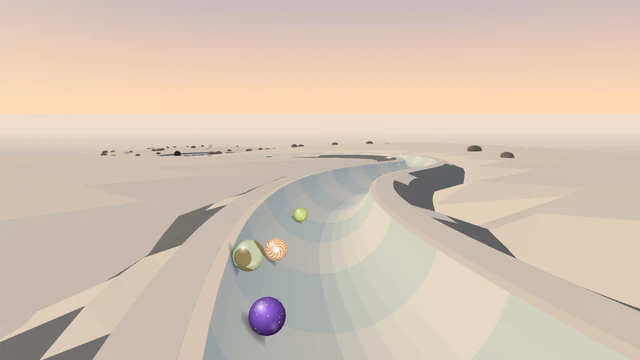
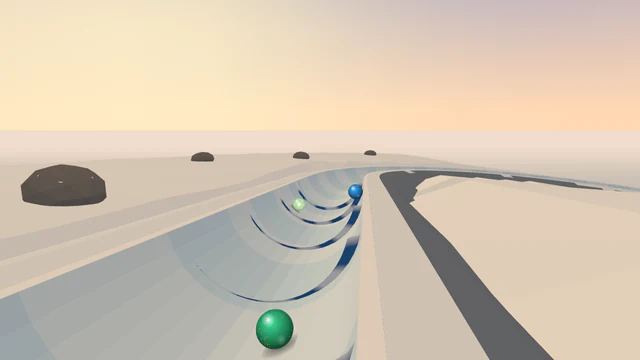
Greenland Expedition: its own layout and opening; its records start again
Until now physically the same track as Åre Run. A snowdrift start (the
sand-trap opening, the field let go in jittered waves) past the sled dogs and
route flags, over the sastrugi, a sweep down the glacier, the hairpin past the
musk ox, over the crevasse bridge, down through the ice cave (the big feature
and new signature), S-bends and a spiral along the fjord to Ilulissat's
harbour. Full report 50/50; Wild 44. Data updates 2027-07-19. Off the known
failures.

Claude-Session: https://claude.ai/code/session_011vSSkqNPL9kncfzrwF15wS

diff --git a/src/tracks/greenland-expedition.js b/src/tracks/greenland-expedition.js
@@ -5,8 +5,8 @@
 // design ("New Track Designs", 10), built with the track kit. (Sled dogs, a musk ox,
 // an Arctic fox and whales: Bobsleigh Run has the polar bear and the icicles.)
 const {
-  track, plunge, straight, sBends, sweep, spiral, hairpin, splitter, runIn,
-  pileUp, slalom, swipe, parked, boost, moguls,
+  track, opening, plunge, straight, sBends, sweep, spiral, hairpin, runIn,
+  slalom, swipe, parked, moguls, peg, brake,
 } = require('../trackKit');
 
 module.exports = track({
@@ -17,10 +17,11 @@ module.exports = track({
   surface: 'ice',
   biome: 'arctic',
   lighting: 'midnight-sun',
-  signature: 'Crevasse bridge',
+  signature: 'Ice cave',
   tvCameras: [
-    { section: 'Crevasse bridge', at: 0.8, side: 'left', distance: 6, height: 8 },
-    { section: 'Glacier splitter', at: 0.2, side: 'left', distance: 6, height: 8 },
+    // (Out of the ice cave, looking back up into its mouth at the field dropping through it.)
+    { section: 'Out of the cave', at: 0.3, side: 'left', distance: 6, height: 8 },
+    { section: 'Fjord spiral', at: 0.5, side: 'right', distance: 6, height: 8 },
   ],
   billboardFrame: 'crates',
   // The gate at a base camp on the ice sheet (orange tents, flags, a loaded dog sled); the
@@ -28,38 +29,43 @@ module.exports = track({
   start: { landmark: 'base-camp', scenery: ['bare'], gate: 'trapdoor', shots: { countdown: 'side', launch: 'look-back' } },
   finish: { scenery: ['colourful-houses', 'icefjord'] },
   designChanges: [
-    'Route-marker flags (bamboo poles with orange flags, as expeditions mark their way across the ice) down the ice-sheet plunge after the sled dogs, glanced off like slalom gates: with dogs alone the field reached the splitter sorted by strength (the report\'s splitter check failed) and overtook too little.',
-    'The crevasse bridge comes just after the glacier splitter, not before it: with a straight in front of the splitter the leaders all reach it on one side and take the same channel, so the splitter decides who wins (the report\'s splitter check fails).',
-    'The sastrugi ridges lie on a 50 m straight of their own after the glacier splitter ("Sastrugi ridges"), not on the S-bends: the recipe keeps rows of bumps off bends, and ridges just before the splitter sorted the field by strength.',
-    'A 50 m straight, "Run to the hairpin", before the hairpin: the recipe needs a braking zone before the one sharp bend.',
+    'Its own layout (Moses, 15 Nov 2026: World Tour re-layouts): over the sastrugi, a sweep down the glacier, the hairpin past the musk ox, over the crevasse bridge, down through the ice cave (the big feature: a long steep drop inside the glacier), S-bends along the fjord and the run to the harbour.',
+    'A snowdrift start (the sand-trap opening, since 15 Nov 2026), the field let go in jittered waves: sled dogs resting on the ice sheet, then route-marker flags (bamboo poles with orange flags, as expeditions mark their way across the ice), glanced off like slalom gates.',
+    'The sastrugi ridges lie on a straight of their own: the recipe keeps rows of bumps off bends.',
+    'A straight, "Run to the hairpin", before the hairpin: the recipe needs a braking zone before the one sharp bend.',
   ],
+  // (The sand-trap start, here a snowdrift: down the ice sheet through deep snow, past the sled dogs resting and the
+  // expedition's route-marker flags; let go in jittered waves, a new order every race.)
+  opening: opening('sand-trap', {
+    costumes: { block: 'sled-dog', slalom: 'route-flag' },
+    names: { plunge: 'Through the snowdrift' },
+    waves: { groups: 5, gap: 0.12, jitter: 0.1 },
+  }),
   sections: [
-    {
-      // Sled dogs resting on the track, then the expedition's route-marker flags down the rest of it.
-      name: 'Ice-sheet plunge', shape: plunge(80, { grade: 0.6 }),
-      obstacles: [pileUp({ costume: 'sled-dog', at: 0.42 }), slalom({ costume: 'route-flag', from: 0.55, to: 0.97, count: 6, loss: 0.3 })],
-      scenery: ['bare'],
-    },
-    {
-      name: 'Sastrugi S-bends', shape: sBends({ first: 'left', radius: 75, degrees: 80, grade: 0.13 }),
-      scenery: ['bare'], billboards: 1,
-    },
-    {
-      name: 'Glacier splitter', shape: splitter({ side: 'left', balance: { tipOffset: -0.8, left: { drag: 1.36, scrub: 1.36 }, right: { drag: 0.42, scrub: 0.72 } } }),
-      around: 'nunatak', scenery: ['rocks'],
-    },
     // The sastrugi: low wind-carved ridges across the ice (on a straight: the recipe keeps rows of bumps off bends).
-    { name: 'Sastrugi ridges', shape: straight(50, { grade: 0.15 }), features: [moguls({ from: 0.1, to: 0.9, count: 5 })], scenery: ['bare'] },
-    { name: 'Crevasse bridge', shape: straight(50, { grade: 0.15 }), bridge: 'ice' },
-    { name: 'Glacier sweep', shape: sweep({ side: 'right', radius: 80, degrees: 140, grade: 0.07 }), features: [boost({ at: 0.08 })], billboards: 2, scenery: ['bare'] },
-    // (Not in the design: the recipe's braking zone needs a straight before the one sharp bend.)
-    { name: 'Run to the hairpin', shape: straight(50, { grade: 0.15 }), billboards: 1, scenery: ['rocks'] },
-    { name: 'Hairpin', shape: hairpin({ side: 'left' }), obstacles: [swipe({ costume: 'musk-ox', side: 'high' })], scenery: ['rocks'] },
-    { name: 'Ice cave', shape: plunge(120, { grade: 0.42, from: 0.16 }), tunnel: 'ice-cave' },
-    { name: 'Fjord spiral', shape: spiral({ side: 'right', radius: 45, grade: 0.17 }), figures: ['arctic-fox'], scenery: ['rocks'] },
+    { name: 'Sastrugi ridges', shape: straight(55, { grade: 0.13 }), features: [moguls({ from: 0.3, to: 0.9, count: 5 })], scenery: ['bare'] },
     {
-      name: 'Final plunge', shape: straight(80, { grade: 0.2 }),
-      obstacles: [parked({ costume: 'snowmobile', at: 0.4, side: 'right', length: 8 })], scenery: ['colourful-houses'],
+      name: 'Glacier sweep', shape: sweep({ side: 'left', radius: 80, degrees: 140, grade: 0.13 }), billboards: 2, scenery: ['bare'],
+    },
+    // (Not in the design: the recipe's braking zone needs a straight before the one sharp bend.)
+    {
+      name: 'Run to the hairpin', shape: straight(55, { grade: 0.13 }), scenery: ['rocks'],
+      obstacles: [peg({ costume: 'route-flag', at: 0.3, line: 'left' }), peg({ costume: 'route-flag', at: 0.55, line: 'right' })],
+    },
+    { name: 'Hairpin', shape: hairpin({ side: 'right' }), obstacles: [swipe({ costume: 'musk-ox', side: 'high' })], scenery: ['rocks'] },
+    { name: 'Crevasse bridge', shape: straight(50, { grade: 0.15 }), bridge: 'ice' },
+    // The track's big feature: a long steep drop through an ice cave inside the glacier.
+    { name: 'Ice cave', shape: plunge(110, { grade: 0.4, from: 0.16 }), tunnel: 'ice-cave' },
+    { name: 'Out of the cave', shape: straight(50, { grade: 0.14 }), billboards: 1, scenery: ['bare'] },
+    {
+      name: 'Fjord S-bends', shape: sBends({ first: 'right', radius: 70, degrees: 80, grade: 0.13 }), figures: ['arctic-fox'], scenery: ['rocks'],
+      obstacles: [peg({ costume: 'route-flag', at: 0.3, line: 'left' }), peg({ costume: 'route-flag', at: 0.7, line: 'right' })],
+    },
+    { name: 'Fjord spiral', shape: spiral({ side: 'left', radius: 45, grade: 0.15 }), scenery: ['icefjord'] },
+    {
+      name: 'Harbour straight', shape: straight(80, { grade: 0.14 }), billboards: 1, scenery: ['colourful-houses'],
+      features: [brake({ at: 0.05, length: 12, drag: 0.02 })],
+      obstacles: [parked({ costume: 'snowmobile', at: 0.3, side: 'right', length: 8 }), slalom({ costume: 'route-flag', from: 0.55, to: 0.9, count: 3, loss: 0.3 })],
     },
     { name: 'Finish', shape: runIn(), scenery: ['colourful-houses', 'icefjord'] },
   ],

diff --git a/test/trackKit.test.js b/test/trackKit.test.js
@@ -56,7 +56,7 @@ test('every kit track opens with Bobsleigh Run\'s starting ramp, gate, channel a
     // (The staggered drop and the varied starts let the field go in waves: their funnel has that one setting more.
     // Any other opening only where its track asks for them, listed here: Nevada Drag Strip's crest start.)
     const { waves, ...rest } = funnel;
-    if (waves) assert.ok(['staggered-drop', 'clean-drop', 'peg-drop', 'pipe-drop', 'rolling-start', 'chicane-start', 'rumble-start'].includes(t.physics.kit.opening) || ['nevada-drag-strip', 'hudson-highlands-run', 'iguazu-devils-throat', 'chao-phraya-dawn-spiral', 'blyde-potholes-spiral', 'kings-canyon-lost-city', 'huashan-plank-walk', 'etna-valle-del-bove', 'tianmen-heavens-gate', 'sunken-ruins', 'are-run', 'crystal-grotto', 'moon-base'].includes(t.slug), `${t.slug}: waves at the gate`);
+    if (waves) assert.ok(['staggered-drop', 'clean-drop', 'peg-drop', 'pipe-drop', 'rolling-start', 'chicane-start', 'rumble-start'].includes(t.physics.kit.opening) || ['nevada-drag-strip', 'hudson-highlands-run', 'iguazu-devils-throat', 'chao-phraya-dawn-spiral', 'blyde-potholes-spiral', 'kings-canyon-lost-city', 'huashan-plank-walk', 'etna-valle-del-bove', 'tianmen-heavens-gate', 'sunken-ruins', 'are-run', 'greenland-expedition', 'crystal-grotto', 'moon-base'].includes(t.slug), `${t.slug}: waves at the gate`);
     if (!['funnel-drop', 'staggered-drop'].includes(t.physics.kit.opening)) assert.deepEqual(rest, tmFunnel);
     assert.deepEqual(t.physics.gate, bob.physics.gate);
     assert.equal(t.physics.collisions, true);

diff --git a/test/samenessAllTracks.test.js b/test/samenessAllTracks.test.js
@@ -37,7 +37,7 @@ const KNOWN = {
   'portes-du-soleil-run': ['opening-kind', 'layout'],
   'park-city-run': ['opening', 'opening-kind', 'layout'],
   'baqueira-beret-run': ['opening', 'opening-kind', 'layout'],
-  'greenland-expedition': ['opening', 'opening-kind', 'layout'],
+
   'paris-eiffel-tower-run': ['opening', 'opening-kind', 'layout'],
   'dubai-twister': ['opening', 'opening-kind', 'layout'],
   'amazon-water-run': ['layout'],

diff --git a/docs/06-decisions.md b/docs/06-decisions.md
@@ -4,7 +4,7 @@
 
 | Date | Decision | Why |
 |---|---|---|
-| 2026-11-15 | **World Tour re-layouts** (Moses, 21:20: every World Tour pack track still on the sameness test's known failures gets its own layout and opening, with a signature feature from the real place, as the Grand Prix re-layouts; then seven new World Tour tracks to fill the pack to 20). Each keeps its name, slug and look; a `--relayout` data update starts its records again (`tracks.records_since`), and a `<slug>-to-world-tour` update sets its new wildness (the pack script now takes a kit track with no series marker as World Tour, as the server does). Done: **Åre Run** (Wild 43, was Easy 29: a rumble start down the summit moguls, the hairpin, a sweep under the gondola, down the World Championship slope as the big feature, the funicular spiral; `2027-07-18-…`). | The old World Tour tracks were built from one design and raced alike (several pairs identical, nine with the same opening). |
+| 2026-11-15 | **World Tour re-layouts** (Moses, 21:20: every World Tour pack track still on the sameness test's known failures gets its own layout and opening, with a signature feature from the real place, as the Grand Prix re-layouts; then seven new World Tour tracks to fill the pack to 20). Each keeps its name, slug and look; a `--relayout` data update starts its records again (`tracks.records_since`), and a `<slug>-to-world-tour` update sets its new wildness (the pack script now takes a kit track with no series marker as World Tour, as the server does). Done: **Åre Run** (Wild 43, was Easy 29: a rumble start down the summit moguls, the hairpin, a sweep under the gondola, down the World Championship slope as the big feature, the funicular spiral; `2027-07-18-…`), **Greenland Expedition** (Wild 44: a snowdrift start, the sand-trap opening, past the sled dogs, the ice cave as the big feature, a long steep drop inside the glacier; `2027-07-19-…`). | The old World Tour tracks were built from one design and raced alike (several pairs identical, nine with the same opening). |
 | 2026-11-15 | **Seven more Blocks 1 tracks: the Blocks 1 pack filled to 20** (Moses, 13:38: the game-world look, our own voxel worlds with retro-game touches, never another game's names, creatures, textures or falling pieces; same rules as the Canyons and Peaks; 2 Easy, 3 Wild, 2 Extreme). Built, each pushed switched off in the Blocks 1 pack, not free: **Mushroom Grove** (Easy 24: a drop off a giant mushroom's cap), **Sunken Ruins** (Easy 17: a banked turn round a sunken dome), **Clockwork Works** (Wild 39: a splitter round a giant gear), **Crystal Grotto** (Wild 44: a spiral round a crystal spire), **Jungle Ruins** (Wild 45: a waterfall drop through falling water), **Moon Base** (Extreme 60: a 66 m drop over a crater's rim), **Neon Grid** (Extreme 57: a loop over the glowing grid, 69 overtakes); data updates `2027-07-11-…` to `2027-07-17-…`; seven new worlds, `kitLandmarksBlockWorlds.js` and three Blocks 1 start types (`portal-gate`, `block-pyramid`, `gear-tower`). On phones a Block Series cube pillar is now at most 8 cubes (each taller), as Crystal Grotto's tall pillars went over the triangle budget; looks only. Status: project doc `claude/blocks-1-seven-more-status.md`. Waiting for Moses's deploy (with the Canyons and Peaks), then his look at each preview before switching on. | With them the Blocks 1 pack has 20 besides the free Spawn Point and can go on sale. |
 | 2026-11-15 | **Six more Peaks tracks: the Peaks pack filled to 20** (Moses, 09:45: same rules as the six Canyons, and 65+ overtakes on a loop track; 2 Easy, 2 Wild, 2 Extreme; six famous mountains not yet in the series, each with two signature features, unlike the World Tour's alpine resorts). Built, each pushed switched off in the Peaks pack, not free: **Half Dome Granite Slabs** (Easy 31: a drop down the granite slabs below the face), **Huayna Picchu Terraces** (Extreme 48: a splitter round a terraced hill), **Huashan Plank Walk** (Easy 20: a dramatic banked turn round the plank walk's cliff), **Eiger North Face** (Wild 43: a banked spiral round a window pillar), **Etna Valle del Bove** (Extreme 50: a drop into the Valle del Bove), **Tianmen Heaven's Gate** (Wild 41: a loop under the great arch, 69 overtakes); data updates `2027-07-05-…` to `2027-07-10-…`; six palettes and `kitLandmarksPeak2.js`; the pack script knows Peaks. Huayna came out Extreme and Huashan Easy, Etna Extreme and Tianmen Wild (planned otherwise); the mix stays 2/2/2. Status: project doc `claude/peaks-six-more-status.md`. Waiting for Moses's deploy (with the Canyons), then his look at each preview before switching on. | With them the Peaks pack has 20 besides the free Everest Icefall Run and can go on sale. |
 | 2026-11-15 | **A coaster track can have a loop** (Kings Canyon Lost City, the first): over the loop's span the coaster's rails, spine, ties and towers stop (3 m either side), as the loop draws its own track and steel along its own path; before, they ran along the ground under it, 64 m with no rim under the rails, and blocked the follow camera. The rails check (`railGaps`) now finds each rail line's first point along the whole track (by height too), so lines that start after a loop are checked where they are. Looks only: race results unchanged. | A loop in a canyon is the Canyons series' loop; the coaster kit had never met one. |

diff --git a/docs/README.md b/docs/README.md
@@ -8,7 +8,7 @@
 
 **Where it stands:**
 - **Website:** live at marblespins.com (Vercel builds every push to `Main`; production is at `548aeb8`, 15 Nov). Soft start (social media, a daily set of videos, 10–20 invited test pilots) since the week of 26 Oct. **Official launch 1 Dec 2026**, with the Holiday Season, the season pass and the apps. GA4 on since 31 Oct (after cookie consent); the Meta Pixel off.
-- **Tracks: 152 live in ten series** (World Tour, Grand Prix, Coasters, Canyons, Blocks, Track and Field, Rivers, Peaks, Pinball, Arcade), since the 9 motorsport Grand Prix tracks were switched on on 13 Nov; 191 in the database. **Switched off, waiting for Moses:** five more Rivers tracks (on the server since 13 Nov: Yukon Five Finger Run, Arno Old Bridge Run, Chao Phraya Dawn Spiral, Hudson Highlands Run, Iguazú Devil's Throat) and six more Canyons tracks (on Main, **waiting for the server deploy**: Bryce Hoodoo Run, Blyde Potholes Spiral, Taroko Marble Gorge, Samaria Iron Gates, Kings Canyon Lost City, the first coaster track with a loop, and Sumidero Christmas Falls; data updates `2027-06-29-…` to `2027-07-04-…`) and six more Peaks tracks (on Main, **waiting for the same deploy**: Half Dome Granite Slabs, Huayna Picchu Terraces, Huashan Plank Walk, Eiger North Face, Etna Valle del Bove, Tianmen Heaven's Gate; data updates `2027-07-05-…` to `2027-07-10-…`) and seven more Blocks 1 tracks (on Main, **waiting for the same deploy**: Mushroom Grove, Sunken Ruins, Clockwork Works, Crystal Grotto, Jungle Ruins, Moon Base, Neon Grid; data updates `2027-07-11-…` to `2027-07-17-…`); World Tour re-layouts (on Main, **waiting for the same deploy**; their records start again): Åre Run (`2027-07-18-…`). Moses deploys Canyons, Peaks, Blocks 1 and the World Tour work together. The 31 holiday tracks are switched on but hidden and closed until 1 Dec 00:00 Swedish time (183 live then).
+- **Tracks: 152 live in ten series** (World Tour, Grand Prix, Coasters, Canyons, Blocks, Track and Field, Rivers, Peaks, Pinball, Arcade), since the 9 motorsport Grand Prix tracks were switched on on 13 Nov; 191 in the database. **Switched off, waiting for Moses:** five more Rivers tracks (on the server since 13 Nov: Yukon Five Finger Run, Arno Old Bridge Run, Chao Phraya Dawn Spiral, Hudson Highlands Run, Iguazú Devil's Throat) and six more Canyons tracks (on Main, **waiting for the server deploy**: Bryce Hoodoo Run, Blyde Potholes Spiral, Taroko Marble Gorge, Samaria Iron Gates, Kings Canyon Lost City, the first coaster track with a loop, and Sumidero Christmas Falls; data updates `2027-06-29-…` to `2027-07-04-…`) and six more Peaks tracks (on Main, **waiting for the same deploy**: Half Dome Granite Slabs, Huayna Picchu Terraces, Huashan Plank Walk, Eiger North Face, Etna Valle del Bove, Tianmen Heaven's Gate; data updates `2027-07-05-…` to `2027-07-10-…`) and seven more Blocks 1 tracks (on Main, **waiting for the same deploy**: Mushroom Grove, Sunken Ruins, Clockwork Works, Crystal Grotto, Jungle Ruins, Moon Base, Neon Grid; data updates `2027-07-11-…` to `2027-07-17-…`); World Tour re-layouts (on Main, **waiting for the same deploy**; their records start again): Åre Run, Greenland Expedition (`2027-07-18-…` to `2027-07-19-…`). Moses deploys Canyons, Peaks, Blocks 1 and the World Tour work together. The 31 holiday tracks are switched on but hidden and closed until 1 Dec 00:00 Swedish time (183 live then).
 - **Server:** last deployed **13 Nov 2026, ~23:00** (code fingerprint `7abad7e4c43d`, Main `7a3342d`; 57 tables, 527 columns): the Stripe webhook's refusals logged and its readiness on `/health`. The week's other deploys (12 Nov `b5cc113debdb` and `bc1bd7ff096f`; 13 Nov ~14:20 `8d7a15a7631e`, ~18:30 `6be622039502`, ~21:45 `c25a2aa05c5b`) brought wildness and track packs, pack sales, the free set of 15, the motorsport Grand Prix tracks, where players come from and the five Rivers. Main is at fingerprint `5636207a9263`: the next deploy brings only the six Canyons tracks.
 - **Wildness and track packs:** every live track is Easy / Wild / Extreme (from 1,000 report races; 68 / 61 / 23 of the 152), shown as a badge and a picker filter. 11 packs (one per series; Pinball and Arcade separate; Blocks 1 and 2), **$7.99, or 1,990 coins + $5.99**, on the website (Stripe, test mode), Google Play and the App Store. **Free set: 15 tracks**, one or two per series. **Complete packs** (20 live besides the free ones): Blocks 2 and Grand Prix; Rivers and Canyons have 20 once their new tracks are on. **Locking and selling are off** (`TRACK_PACKS`); only complete packs lock when it is on. The website keeps saying every track is free until `PACKS_LIVE` (`client/src/shared/packWording.js`). First end-to-end test purchase (Grand Prix pack, Stripe test mode) worked on 13 Nov. Still to do: the store products, the pack terms of sale (draft at `/preview/legal-packs`), Moses's go.
 - **Apps:** iPhone and Android (Capacitor). **Android 1.0.0 (5) in Play internal testing, tested by Moses on 13 Nov:** hit and bump sounds work, the ceremony song stops (the slow-phone and sound fixes of 11–12 Nov confirmed). `client/app-version.json` and the iPhone project at 1.0.0 (5); the next build is 6 (`npm run app:version -- build`). **Store submission planned for 16–20 Nov.**
